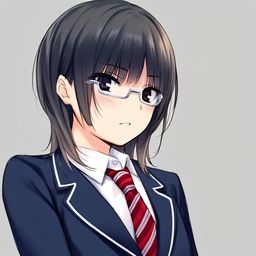
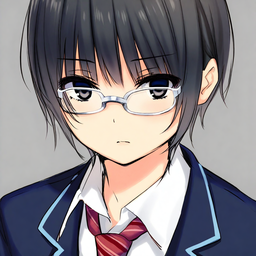
追加キャラクター24名のポートレート画像をimportし、portrait: nullを解消
再生成した3枚（aoki_sora, murakami_sota, otsuka_itsuki）の品質改善を含む。

diff --git a/src/data.ts b/src/data.ts
@@ -18,6 +18,31 @@ import saitoManabuPortrait from '../portraits/saito_manabu.png';
 import takayamaSeiichiPortrait from '../portraits/takayama_seiichi.png';
 import yuukiAkariPortrait from '../portraits/yuuki_akari.png';
 import shidoTsuyoshiPortrait from '../portraits/shido_tsuyoshi.png';
+// 追加キャラクター
+import ogawaHarukaPortrait from '../portraits/ogawa_haruka.png';
+import inoueMomokaPortrait from '../portraits/inoue_momoka.png';
+import endoRyotaPortrait from '../portraits/endo_ryota.png';
+import shimizuNanaPortrait from '../portraits/shimizu_nana.png';
+import aokiSoraPortrait from '../portraits/aoki_sora.png';
+import moritaChihiroPortrait from '../portraits/morita_chihiro.png';
+import nishidaKaitoPortrait from '../portraits/nishida_kaito.png';
+import hayashiRikoPortrait from '../portraits/hayashi_riko.png';
+import fujitaMeiPortrait from '../portraits/fujita_mei.png';
+import uedaTakumiPortrait from '../portraits/ueda_takumi.png';
+import kimuraYunaPortrait from '../portraits/kimura_yuna.png';
+import murakamiSotaPortrait from '../portraits/murakami_sota.png';
+import yoshidaHinataPortrait from '../portraits/yoshida_hinata.png';
+import okamotoRinPortrait from '../portraits/okamoto_rin.png';
+import gotoHayatoPortrait from '../portraits/goto_hayato.png';
+import sakamotoMiuPortrait from '../portraits/sakamoto_miu.png';
+import yamaguchiRyoPortrait from '../portraits/yamaguchi_ryo.png';
+import ikedaKotonePortrait from '../portraits/ikeda_kotone.png';
+import otsukaItsukiPortrait from '../portraits/otsuka_itsuki.png';
+import tanabeMisakiPortrait from '../portraits/tanabe_misaki.png';
+import kawanoShioriPortrait from '../portraits/kawano_shiori.png';
+import maedaTaigaPortrait from '../portraits/maeda_taiga.png';
+import noguchiSakiPortrait from '../portraits/noguchi_saki.png';
+import ishikawaYusukePortrait from '../portraits/ishikawa_yusuke.png';
 
 // 候補者の表示情報（色・公約）
 export const CANDIDATE_INFO: CandidateInfo[] = [
@@ -475,7 +500,7 @@ export const STUDENTS: Student[] = [
     stats: { speech: 45, athletic: 25, intel: 55, maxHp: 80 },
     affinity: 0,
     talkCount: 0,
-    portrait: null,
+    portrait: ogawaHarukaPortrait,
     candidateId: null,
     playable: false,
   },
@@ -497,7 +522,7 @@ export const STUDENTS: Student[] = [
     stats: { speech: 60, athletic: 30, intel: 50, maxHp: 85 },
     affinity: 0,
     talkCount: 0,
-    portrait: null,
+    portrait: inoueMomokaPortrait,
     candidateId: null,
     playable: false,
   },
@@ -519,7 +544,7 @@ export const STUDENTS: Student[] = [
     stats: { speech: 25, athletic: 75, intel: 20, maxHp: 115 },
     affinity: 0,
     talkCount: 0,
-    portrait: null,
+    portrait: endoRyotaPortrait,
     candidateId: null,
     playable: false,
   },
@@ -541,7 +566,7 @@ export const STUDENTS: Student[] = [
     stats: { speech: 50, athletic: 35, intel: 35, maxHp: 90 },
     affinity: 0,
     talkCount: 0,
-    portrait: null,
+    portrait: shimizuNanaPortrait,
     candidateId: null,
     playable: false,
   },
@@ -563,7 +588,7 @@ export const STUDENTS: Student[] = [
     stats: { speech: 55, athletic: 15, intel: 70, maxHp: 70 },
     affinity: 0,
     talkCount: 0,
-    portrait: null,
+    portrait: aokiSoraPortrait,
     candidateId: null,
     playable: false,
   },
@@ -585,7 +610,7 @@ export const STUDENTS: Student[] = [
     stats: { speech: 35, athletic: 20, intel: 55, maxHp: 75 },
     affinity: 0,
     talkCount: 0,
-    portrait: null,
+    portrait: moritaChihiroPortrait,
     candidateId: null,
     playable: false,
   },
@@ -607,7 +632,7 @@ export const STUDENTS: Student[] = [
     stats: { speech: 20, athletic: 70, intel: 30, maxHp: 110 },
     affinity: 0,
     talkCount: 0,
-    portrait: null,
+    portrait: nishidaKaitoPortrait,
     candidateId: null,
     playable: false,
   },
@@ -629,7 +654,7 @@ export const STUDENTS: Student[] = [
     stats: { speech: 30, athletic: 10, intel: 60, maxHp: 65 },
     affinity: 0,
     talkCount: 0,
-    portrait: null,
+    portrait: hayashiRikoPortrait,
     candidateId: null,
     playable: false,
   },
@@ -651,7 +676,7 @@ export const STUDENTS: Student[] = [
     stats: { speech: 55, athletic: 65, intel: 50, maxHp: 95 },
     affinity: 0,
     talkCount: 0,
-    portrait: null,
+    portrait: fujitaMeiPortrait,
     candidateId: null,
     playable: false,
   },
@@ -673,7 +698,7 @@ export const STUDENTS: Student[] = [
     stats: { speech: 40, athletic: 30, intel: 70, maxHp: 80 },
     affinity: 0,
     talkCount: 0,
-    portrait: null,
+    portrait: uedaTakumiPortrait,
     candidateId: null,
     playable: false,
   },
@@ -695,7 +720,7 @@ export const STUDENTS: Student[] = [
     stats: { speech: 65, athletic: 35, intel: 60, maxHp: 85 },
     affinity: 0,
     talkCount: 0,
-    portrait: null,
+    portrait: kimuraYunaPortrait,
     candidateId: null,
     playable: false,
   },
@@ -717,7 +742,7 @@ export const STUDENTS: Student[] = [
     stats: { speech: 20, athletic: 70, intel: 25, maxHp: 115 },
     affinity: 0,
     talkCount: 0,
-    portrait: null,
+    portrait: murakamiSotaPortrait,
     candidateId: null,
     playable: false,
   },
@@ -739,7 +764,7 @@ export const STUDENTS: Student[] = [
     stats: { speech: 50, athletic: 20, intel: 65, maxHp: 80 },
     affinity: 0,
     talkCount: 0,
-    portrait: null,
+    portrait: yoshidaHinataPortrait,
     candidateId: null,
     playable: false,
   },
@@ -761,7 +786,7 @@ export const STUDENTS: Student[] = [
     stats: { speech: 50, athletic: 25, intel: 45, maxHp: 90 },
     affinity: 0,
     talkCount: 0,
-    portrait: null,
+    portrait: okamotoRinPortrait,
     candidateId: null,
     playable: false,
   },
@@ -783,7 +808,7 @@ export const STUDENTS: Student[] = [
     stats: { speech: 35, athletic: 80, intel: 25, maxHp: 120 },
     affinity: 0,
     talkCount: 0,
-    portrait: null,
+    portrait: gotoHayatoPortrait,
     candidateId: null,
     playable: false,
   },
@@ -805,7 +830,7 @@ export const STUDENTS: Student[] = [
     stats: { speech: 40, athletic: 20, intel: 55, maxHp: 75 },
     affinity: 0,
     talkCount: 0,
-    portrait: null,
+    portrait: sakamotoMiuPortrait,
     candidateId: null,
     playable: false,
   },
@@ -827,7 +852,7 @@ export const STUDENTS: Student[] = [
     stats: { speech: 55, athletic: 25, intel: 75, maxHp: 80 },
     affinity: 0,
     talkCount: 0,
-    portrait: null,
+    portrait: yamaguchiRyoPortrait,
     candidateId: null,
     playable: false,
   },
@@ -849,7 +874,7 @@ export const STUDENTS: Student[] = [
     stats: { speech: 55, athletic: 20, intel: 80, maxHp: 75 },
     affinity: 0,
     talkCount: 0,
-    portrait: null,
+    portrait: ikedaKotonePortrait,
     candidateId: null,
     playable: false,
   },
@@ -871,7 +896,7 @@ export const STUDENTS: Student[] = [
     stats: { speech: 75, athletic: 30, intel: 65, maxHp: 85 },
     affinity: 0,
     talkCount: 0,
-    portrait: null,
+    portrait: otsukaItsukiPortrait,
     candidateId: null,
     playable: false,
   },
@@ -893,7 +918,7 @@ export const STUDENTS: Student[] = [
     stats: { speech: 45, athletic: 60, intel: 40, maxHp: 100 },
     affinity: 0,
     talkCount: 0,
-    portrait: null,
+    portrait: tanabeMisakiPortrait,
     candidateId: null,
     playable: false,
   },
@@ -915,7 +940,7 @@ export const STUDENTS: Student[] = [
     stats: { speech: 50, athletic: 15, intel: 85, maxHp: 70 },
     affinity: 0,
     talkCount: 0,
-    portrait: null,
+    portrait: kawanoShioriPortrait,
     candidateId: null,
     playable: false,
   },
@@ -937,7 +962,7 @@ export const STUDENTS: Student[] = [
     stats: { speech: 15, athletic: 85, intel: 15, maxHp: 125 },
     affinity: 0,
     talkCount: 0,
-    portrait: null,
+    portrait: maedaTaigaPortrait,
     candidateId: null,
     playable: false,
   },
@@ -959,7 +984,7 @@ export const STUDENTS: Student[] = [
     stats: { speech: 50, athletic: 45, intel: 55, maxHp: 90 },
     affinity: 0,
     talkCount: 0,
-    portrait: null,
+    portrait: noguchiSakiPortrait,
     candidateId: null,
     playable: false,
   },
@@ -981,7 +1006,7 @@ export const STUDENTS: Student[] = [
     stats: { speech: 30, athletic: 65, intel: 15, maxHp: 120 },
     affinity: 0,
     talkCount: 0,
-    portrait: null,
+    portrait: ishikawaYusukePortrait,
     candidateId: null,
     playable: false,
   },
